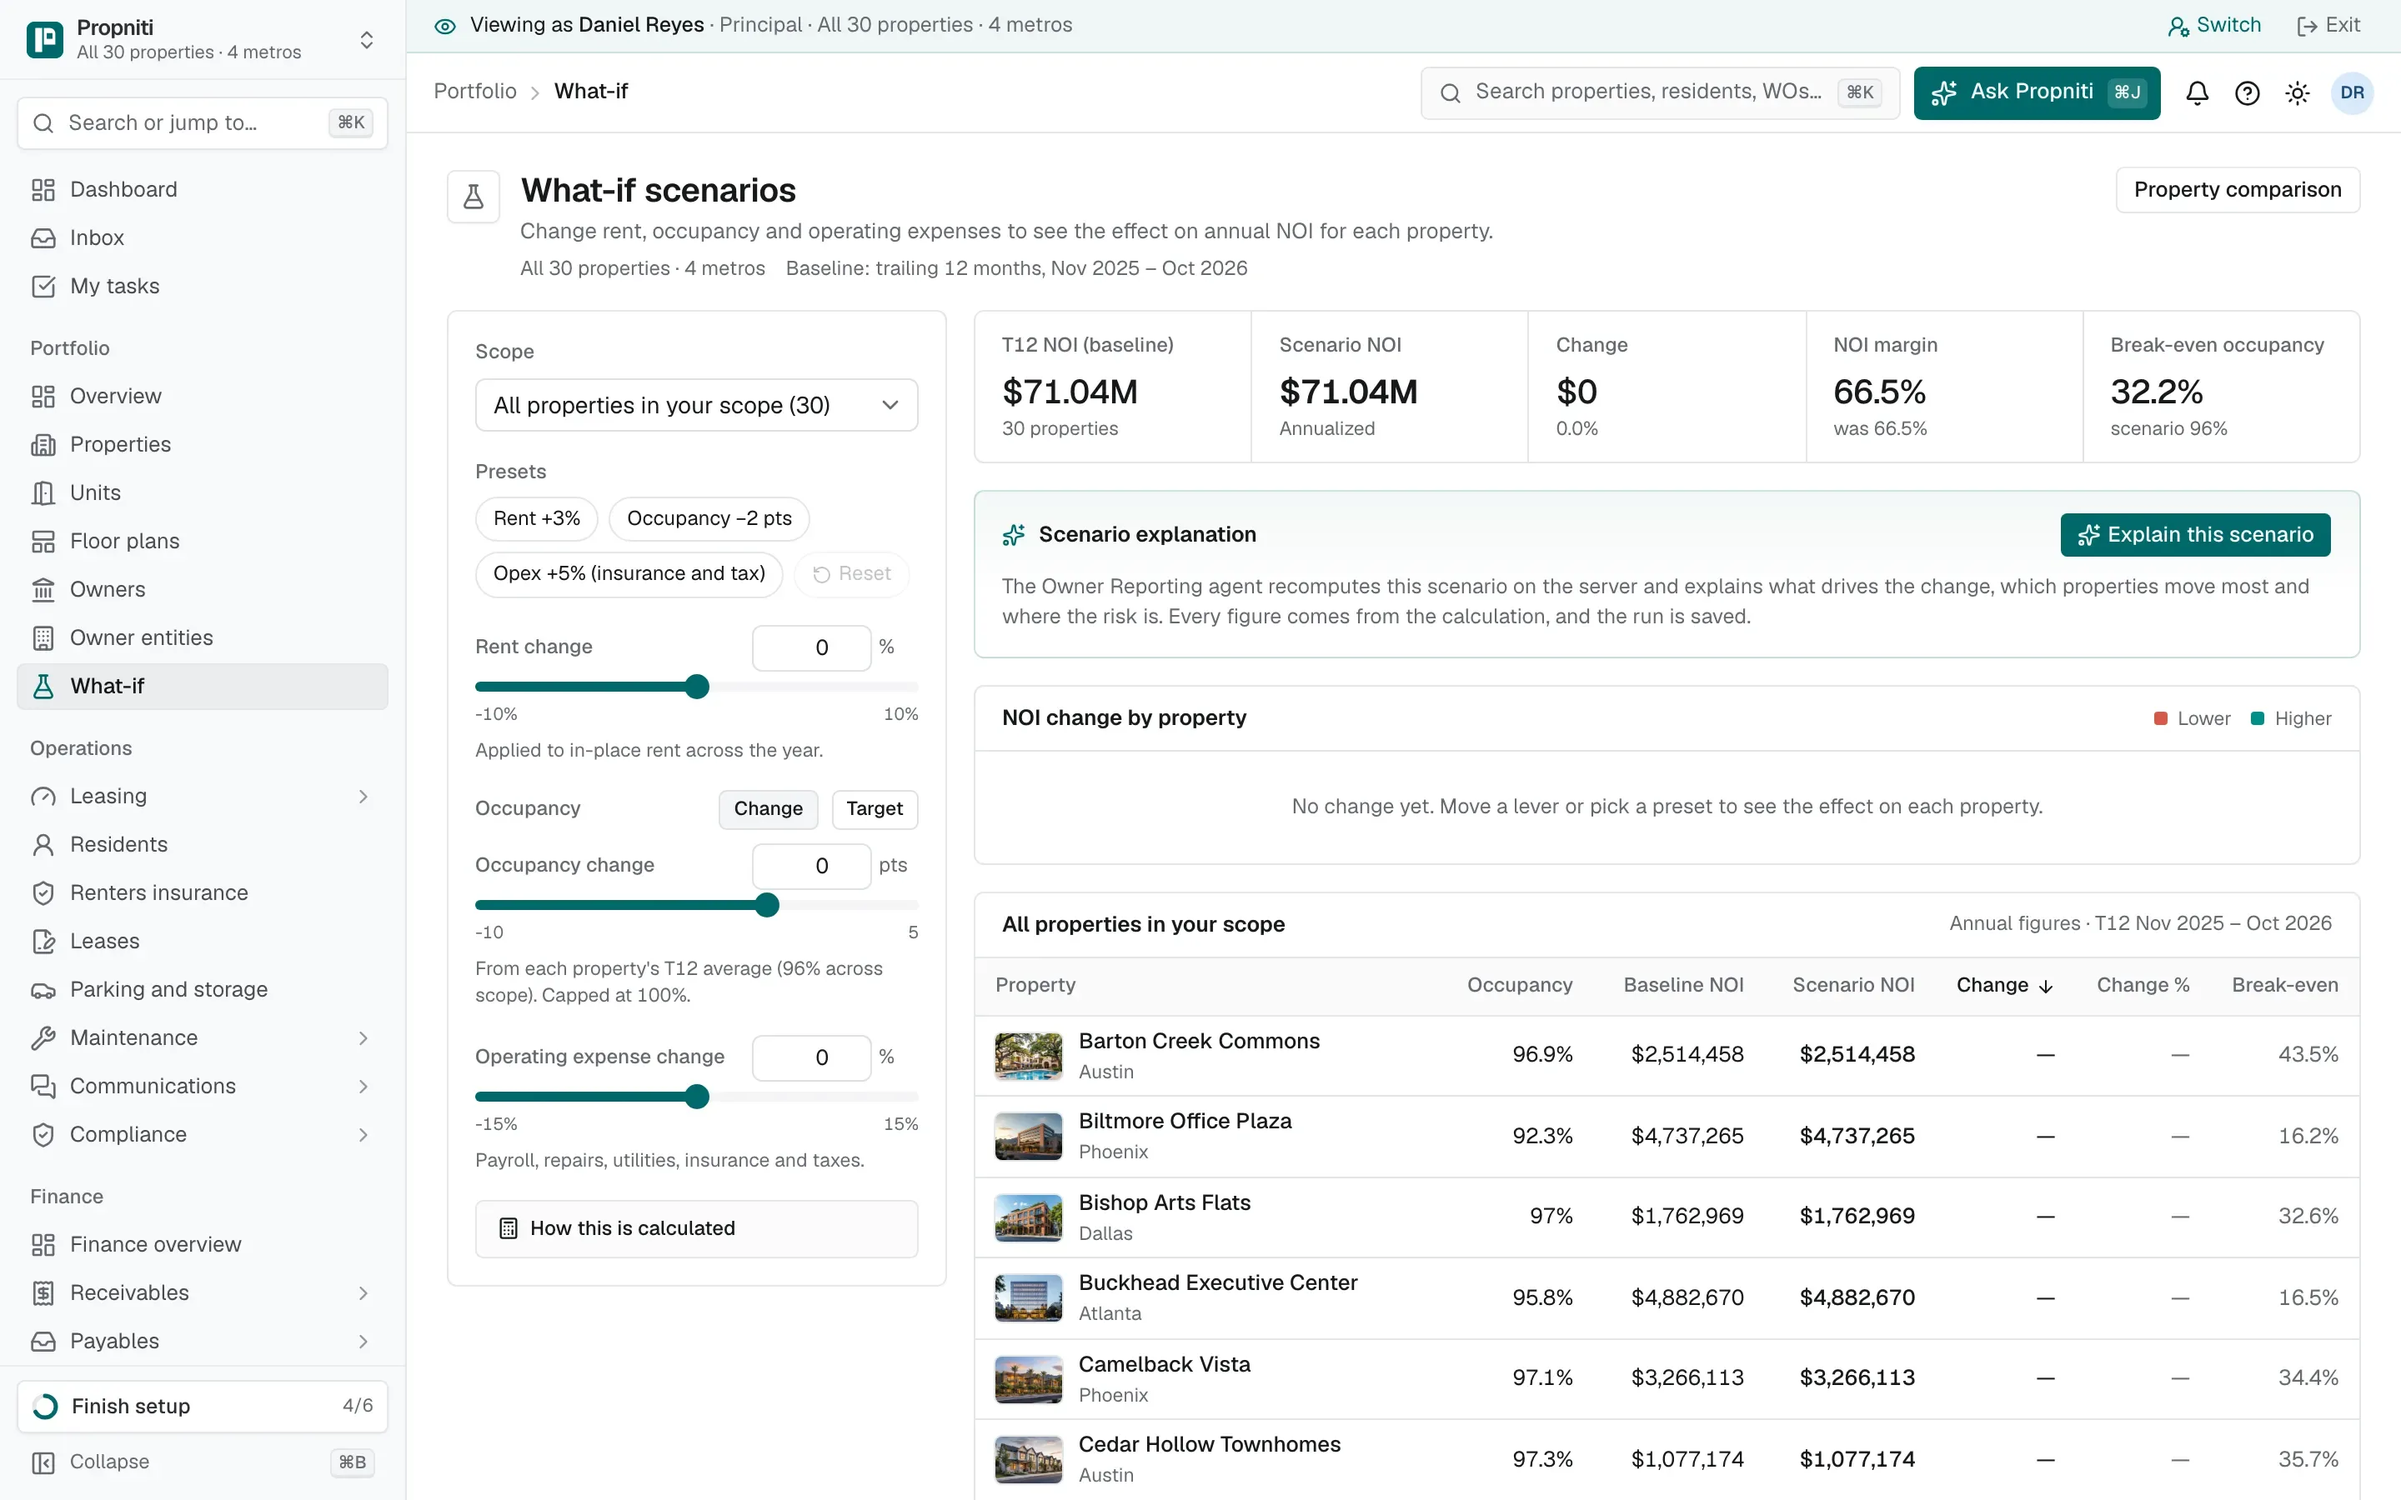
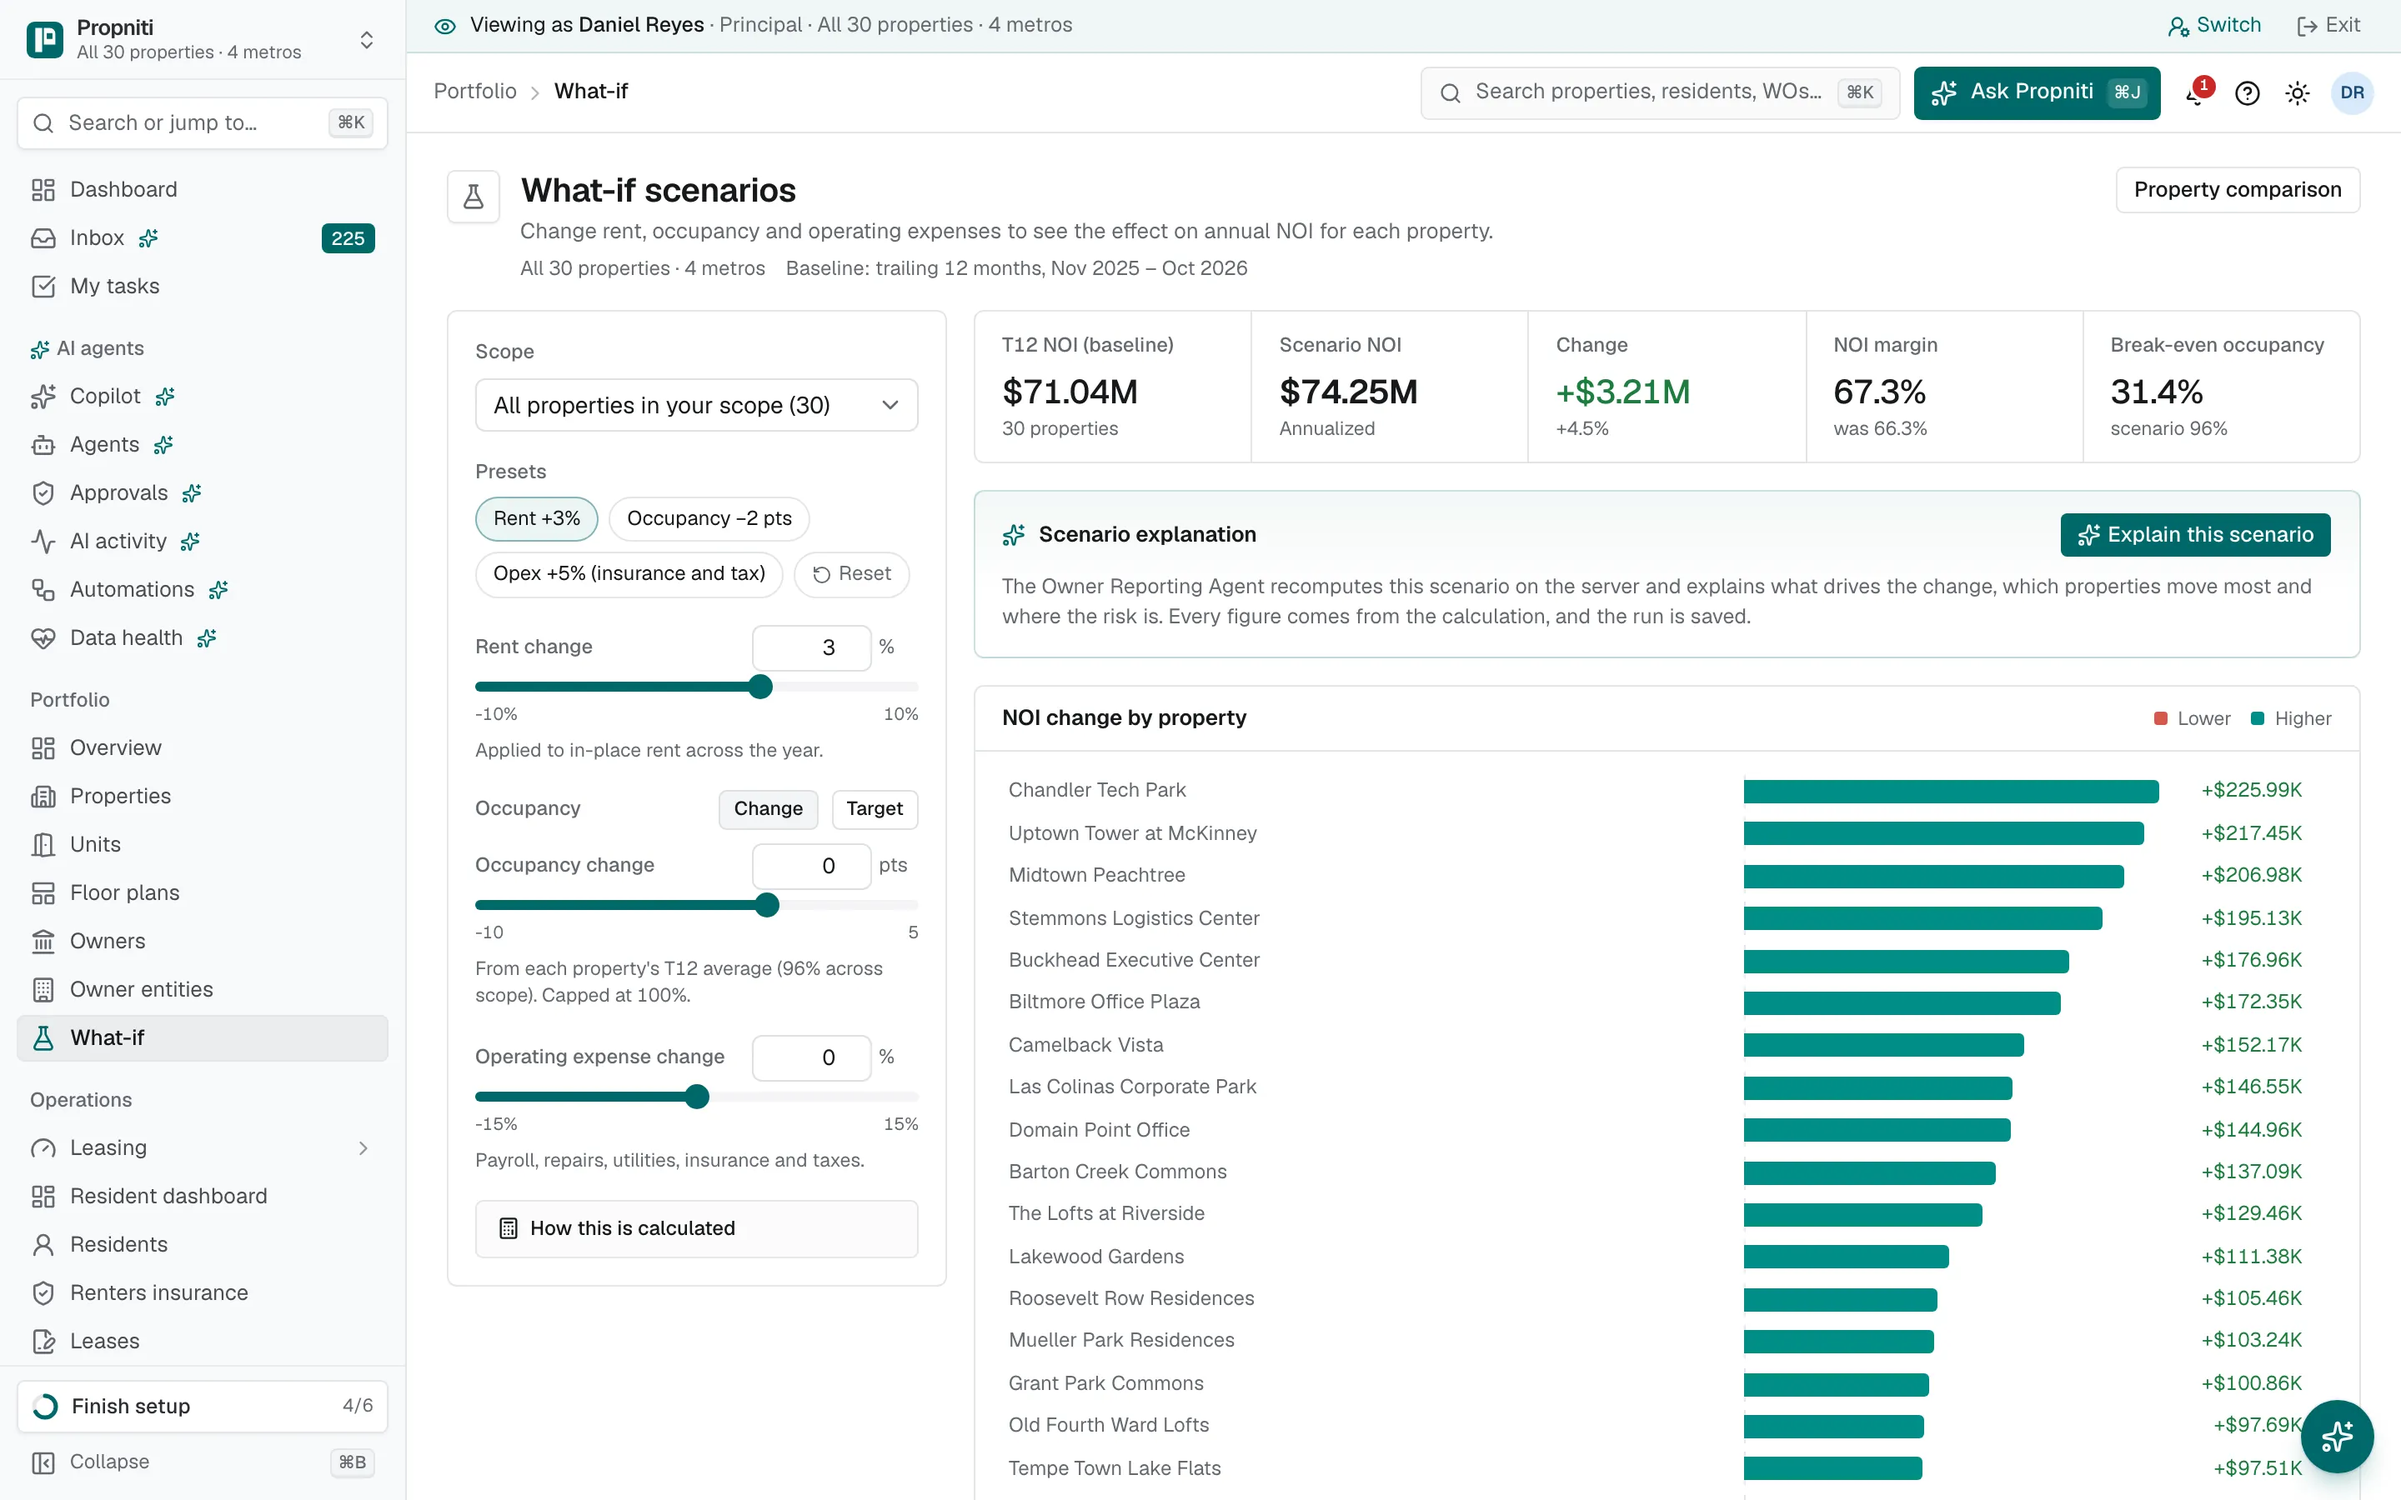
Marketing: retake product screenshots from production
Retake the six marketing shots after today's UI changes, same 2880x1800
frame at 1440x900 and 2x. The home shot is now the property manager's
Today briefing, and the explained shot shows an Explain panel on a KPI.
Alt text updated to match what each new shot shows.

diff --git a/src/components/marketing/content.ts b/src/components/marketing/content.ts
@@ -41,7 +41,7 @@ export const PILLARS: Pillar[] = [
       "Answers show the records the assistant looked up",
     ],
     shot: "/img/marketing/shots/explained.webp",
-    shotAlt: "Principal dashboard: a briefing of what changed, NOI, occupancy, collections and delinquency KPIs, each with an Explain button",
+    shotAlt: "Explain panel on the collections rate KPI: what changed since last month in plain English and the properties that moved it most",
     appHref: "/app",
   },
   {
@@ -55,7 +55,7 @@ export const PILLARS: Pillar[] = [
       "Certificates of insurance and permits that expire within 30 days",
     ],
     shot: "/img/marketing/shots/predictions.webp",
-    shotAlt: "Residents list with delinquency, collections, high delinquency risk and lapsed insurance counts above the table",
+    shotAlt: "Residents list with past-due balance, collections rate, high delinquency risk and lapsed insurance counts above the table",
     appHref: "/app/residents",
   },
   {
@@ -69,7 +69,7 @@ export const PILLARS: Pillar[] = [
       "A plain-English summary of the scenario you can share",
     ],
     shot: "/img/marketing/shots/what-if.webp",
-    shotAlt: "What-if simulator: rent, occupancy and expense controls with baseline and scenario NOI for each property",
+    shotAlt: "What-if simulator: rent, occupancy and expense controls, baseline and scenario NOI, and the NOI change for each property",
     appHref: "/app/portfolio/what-if",
   },
 ];

diff --git a/src/app/(marketing)/page.tsx b/src/app/(marketing)/page.tsx
@@ -59,7 +59,7 @@ export default async function Home() {
           </div>
 
           <div className="relative mt-14 sm:mt-20 motion-safe:animate-in motion-safe:fade-in motion-safe:slide-in-from-bottom-6 motion-safe:duration-1000">
-            <Shot src="/img/marketing/shots/home.webp" alt="Propniti home for a property manager: what the agents handled since yesterday, approvals waiting with their reasons, and risks to look at" priority className="rounded-b-none" />
+            <Shot src="/img/marketing/shots/home.webp" alt="Propniti home for a property manager: a briefing of what the agents handled in the last day, proposals waiting for a decision, and risks to look at" priority className="rounded-b-none" />
             <div aria-hidden className="pointer-events-none absolute -left-6 top-[46%] hidden w-80 lg:block motion-safe:animate-in motion-safe:fade-in motion-safe:slide-in-from-left-4 motion-safe:delay-500 motion-safe:duration-700 motion-safe:fill-mode-both">
               <PillarVignette slug="data-health" />
             </div>
